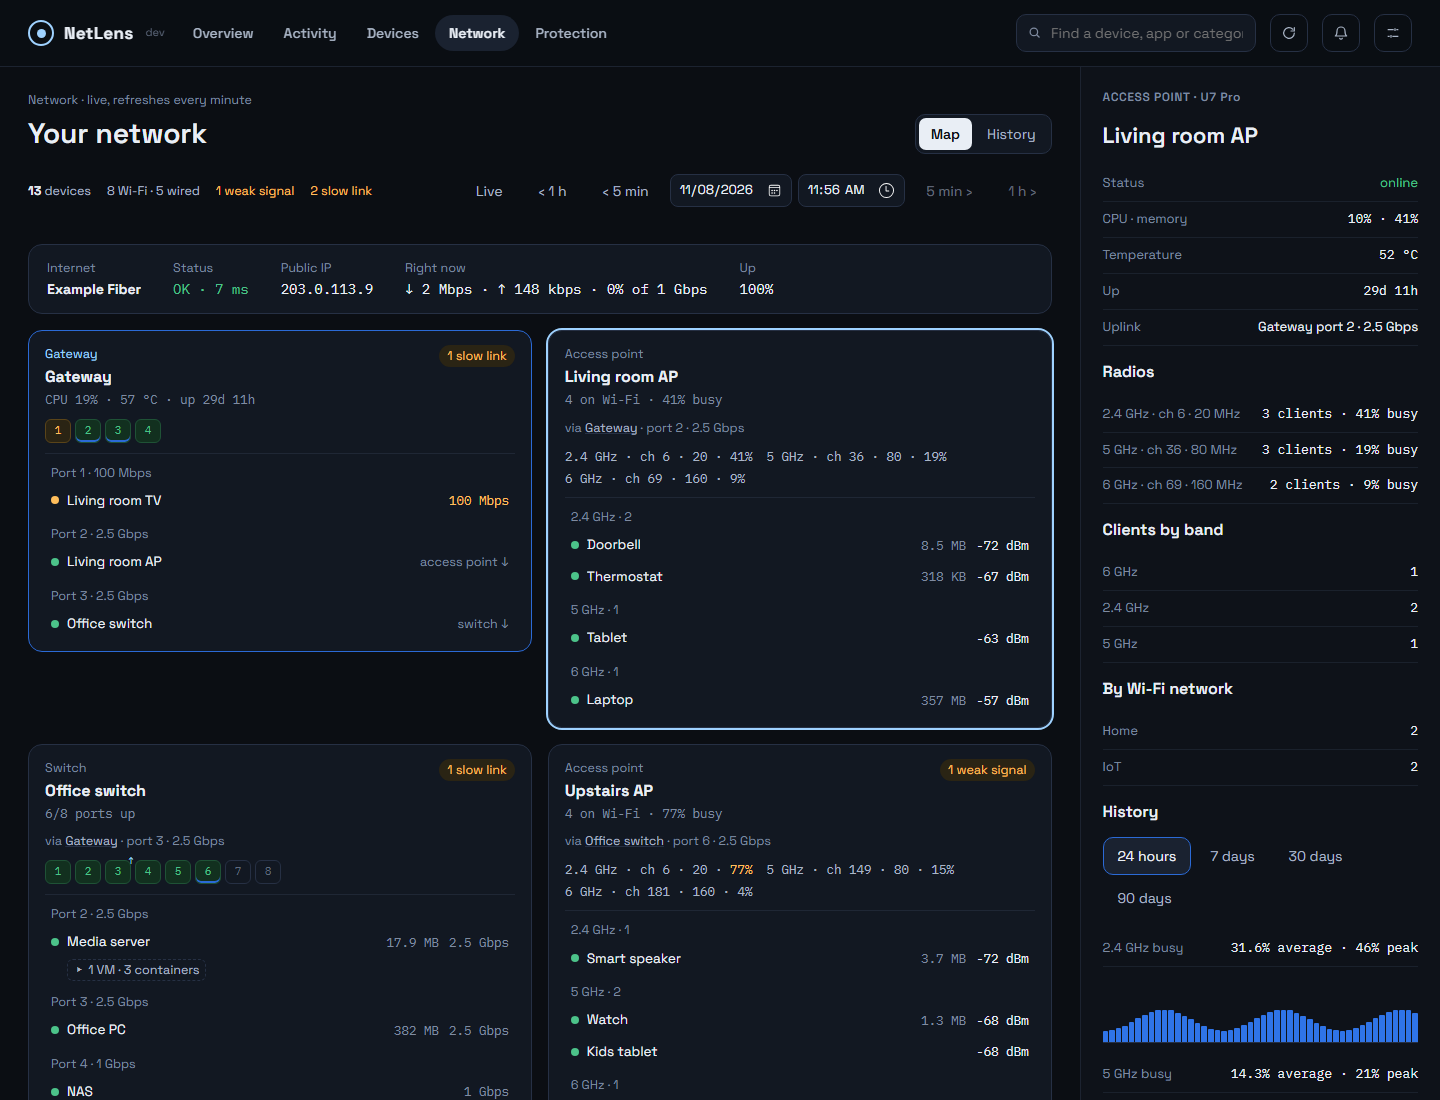
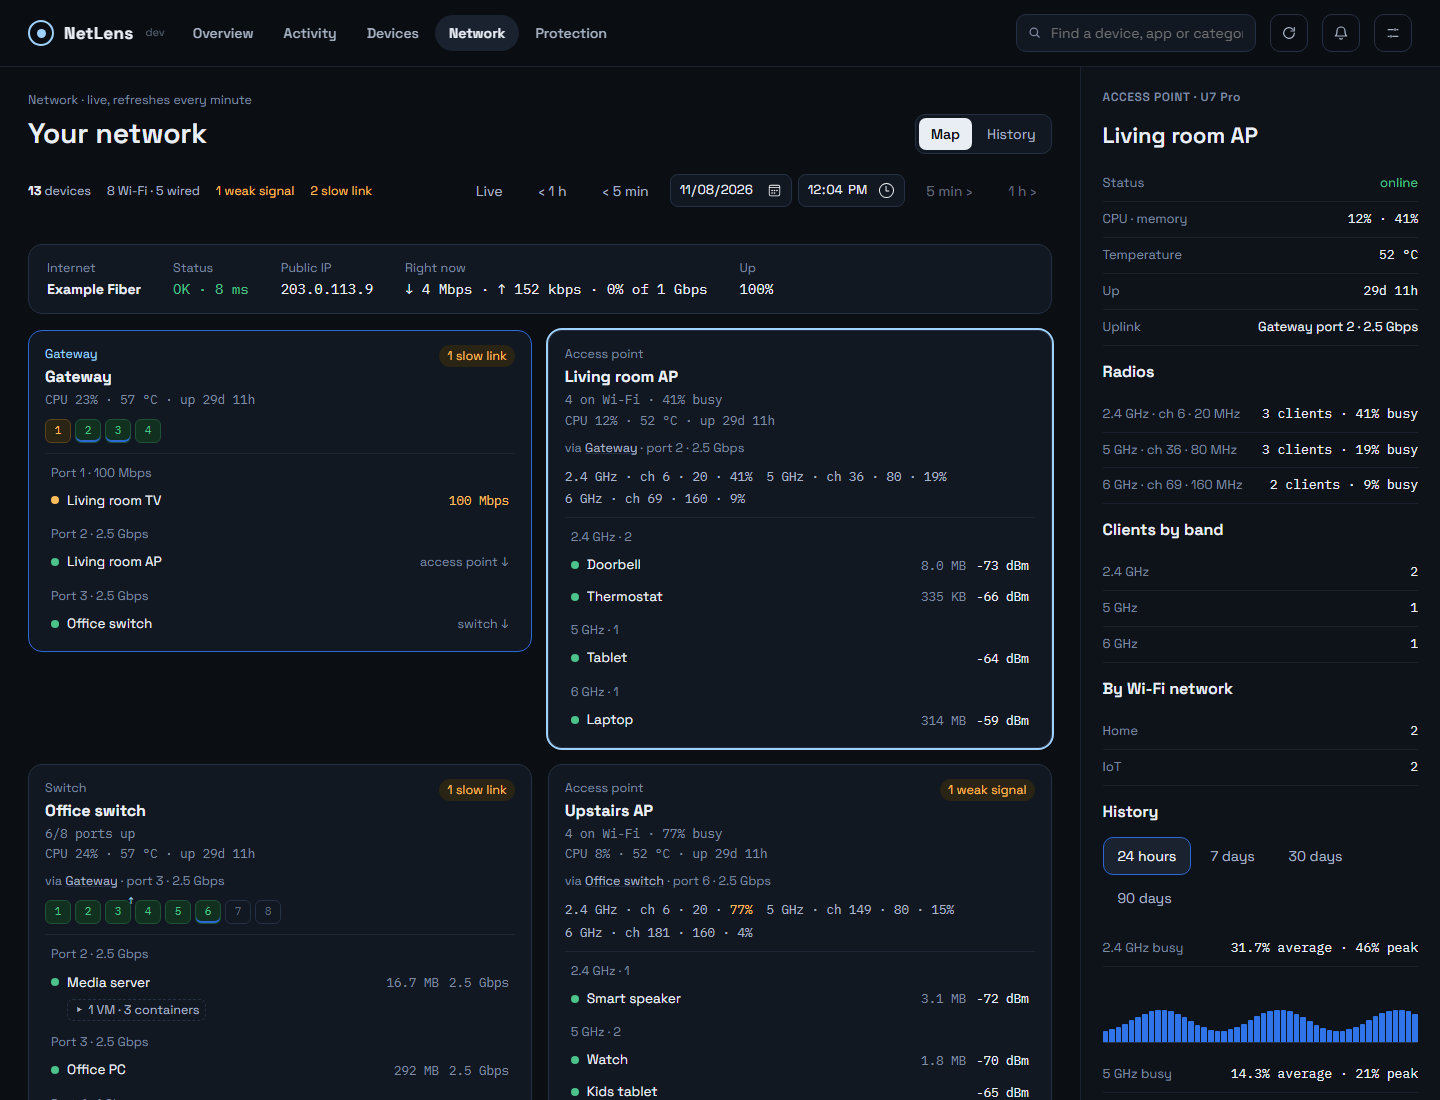
Release v2.21.1

diff --git a/web/src/pages/Network.jsx b/web/src/pages/Network.jsx
@@ -306,8 +306,10 @@ function NodeCard({ node, parent, kids, sel, selC }) {
     if (!bands.has(b)) bands.set(b, []);
     bands.get(b).push(c);
   }
+  // CPU, temperature (where the device has a sensor) and uptime, on every card (UU-C-221).
+  const health = [node.cpu != null ? `CPU ${Math.round(node.cpu)}%` : null, node.temp != null ? `${Math.round(node.temp)} °C` : null, node.uptime != null ? `up ${duration(node.uptime)}` : null].filter(Boolean).join(" · ");
   const stat = isGw(node)
-    ? [node.cpu != null ? `CPU ${Math.round(node.cpu)}%` : null, node.temp != null ? `${Math.round(node.temp)} °C` : null, `up ${duration(node.uptime)}`].filter(Boolean).join(" · ")
+    ? null
     : ap
       ? `${wifi.length} on Wi-Fi · ${Math.max(0, ...node.radios.map((r) => r.util || 0))}% busy`
       : `${(node.ports || []).filter((p) => p.up).length}/${(node.ports || []).length} ports up`;
@@ -316,7 +318,8 @@ function NodeCard({ node, parent, kids, sel, selC }) {
       <a className="eq-head" href={mapHref(at, { n: node.mac })}>
         <span className="eq-kind small">{kindOf(node.type)}{node.online === false ? " · offline" : ""}</span>
         <strong className="eq-name">{node.name}</strong>
-        <span className="mono small dim">{stat}</span>
+        {stat && <span className="mono small dim">{stat}</span>}
+        {health && <span className={`mono small dim ${node.temp >= 80 || node.cpu >= 90 ? "warn" : ""}`}>{health}</span>}
         {(weak > 0 || slow > 0) && <span className="eq-issues small">{[weak ? `${weak} weak signal` : null, slow ? `${slow} slow link` : null].filter(Boolean).join(" · ")}</span>}
       </a>
       {parent && (

diff --git a/RELEASE_NOTES.md b/RELEASE_NOTES.md
@@ -1,3 +1,2 @@
 ### Changed
-- Network, redesigned: the internet line across the top, then one card per gateway, switch and access point, from the gateway outward. Switch ports are tiles, devices are listed by port or by Wi-Fi band with their signal, and each card counts its weak signals and slow links. A line under the title sums up the network.
-- Network: Map and History are two views instead of one long page; picking a time in History opens the map at that moment.
+- Network: every switch and access point card shows its CPU, temperature and uptime, like the gateway's.

diff --git a/CHANGELOG.md b/CHANGELOG.md
@@ -1,5 +1,10 @@
 # Changelog
 
+## 2.21.1 — 2026-11-08
+
+### Changed
+- Network: every switch and access point card shows its CPU, temperature and uptime, like the gateway's.
+
 ## 2.21.0 — 2026-11-08
 
 ### Changed
